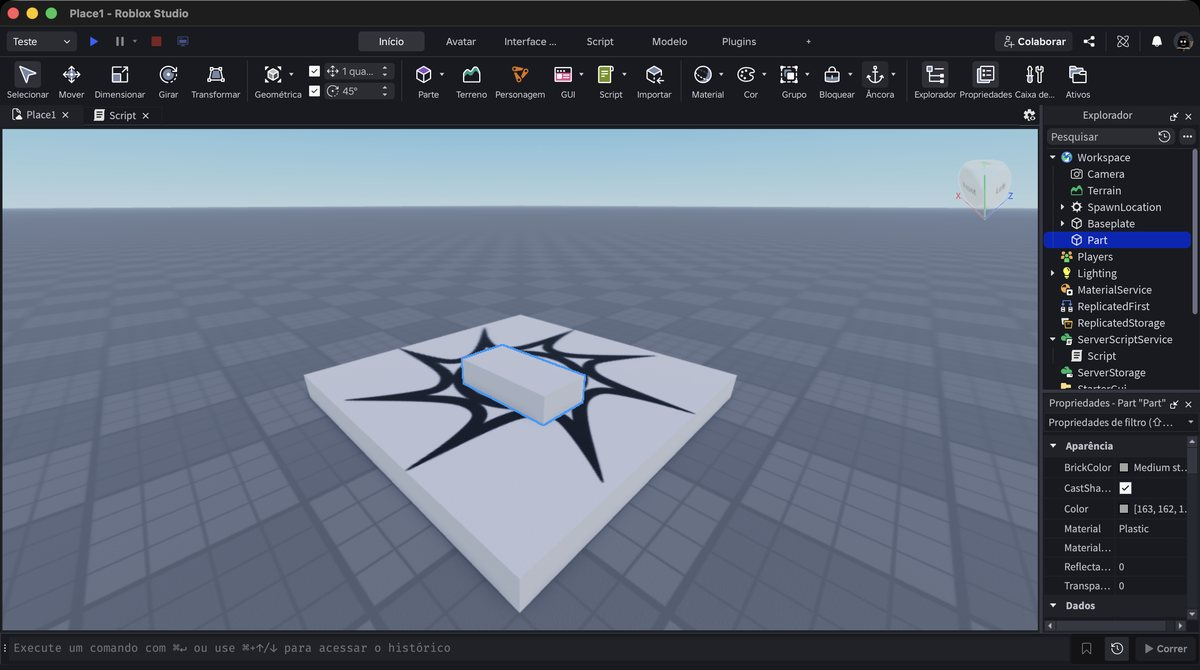
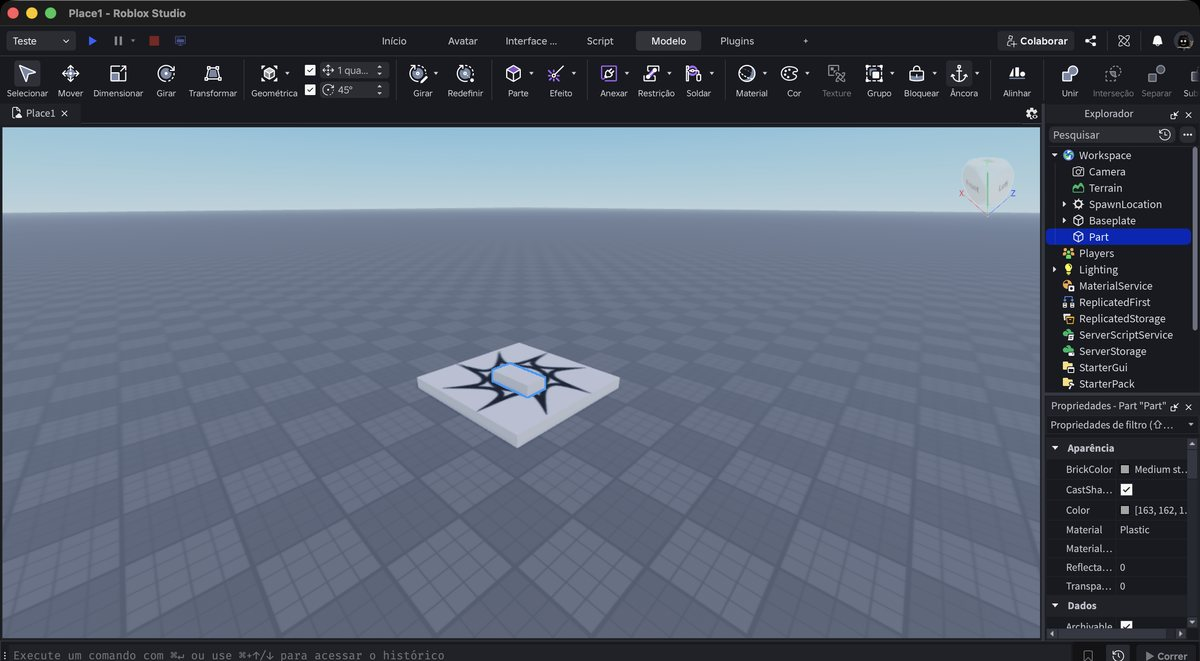
Conserta dois clipes da Aula 8 que apontavam o botao errado
As capturas de 'criar a moeda' e 'ancorar' tinham sido feitas com a faixa
na aba Inicio, enquanto o passo 2 manda ir para Modelo. O cursor pousava
em 'Personagem' e em 'Propriedades'. Recapturei na aba certa.

Junto vai o confere_clipes.py, que le a captura na posicao do alvo e
reprova quando o rotulo ali nao e o que o texto manda clicar — a checagem
que faltava para esse erro nao passar batido.

Changed region(s): [[0.0, 0.0303, 1.0, 1.0], [0.2467, 0.4539, 0.6167, 0.9077], [0.0308, 0.0, 0.1542, 0.0303]]

diff --git a/confere_clipes.py b/confere_clipes.py
@@ -1,0 +1,66 @@
+#!/usr/bin/env python3
+# -*- coding: utf-8 -*-
+"""Confere o alvo de TODO clipe de gesto contra a captura que ele usa.
+   Nasceu de um erro real: um clipe da Aula 8 apontava o cursor para
+   'Personagem' enquanto o texto mandava clicar em 'Parte' — porque a captura
+   tinha sido feita com a faixa noutra aba."""
+import os, sys
+from confere_alvos import rotulo_em
+
+# (pasta, captura ANTES, alvo, rotulo que TEM de estar ali)
+CLIPES = [
+ ("aula2","s04_a.png",[1269,118],"parte"),
+ ("aula2","s06_a.png",[2361,118],"ancora"),
+ ("aula2","s07_a.png",[1990,118],"cor"),
+ ("aula2","s08_a.png",[1885,118],"material"),
+ ("aula3","s_criar_a.png",[1269,118],"parte"),
+ ("aula3","s_ancora_a.png",[2361,118],"ancora"),
+ ("aula3","s_cor_a.png",[1990,118],"cor"),
+ ("aula4","s_criar_a.png",[1269,118],"parte"),
+ ("aula4","s_ancora_a.png",[2361,118],"ancora"),
+ ("aula4","s_cor_a.png",[1990,118],"cor"),
+ ("aula5","s_moeda_a.png",[1269,118],"parte"),
+ ("aula5","s_anc_moeda_a.png",[2361,118],"ancora"),
+ ("aula5","s_cor_a.png",[1990,118],"cor"),
+ ("aula6","s_porta_a.png",[1269,118],"parte"),
+ ("aula6","s_anc_porta_a.png",[2362,118],"ancora"),
+ ("aula6","s_botao_a.png",[1269,118],"parte"),
+ ("aula6","s_cor_porta_a.png",[1990,118],"cor"),
+ ("aula6","s_cor_botao_a.png",[1990,118],"cor"),
+ ("aula7","s_criar_a.png",[1269,118],"parte"),
+ ("aula7","s_ancora_a.png",[2361,118],"ancora"),
+ ("aula7","s_cor_a.png",[1990,118],"cor"),
+ ("aula8","s_moeda_a.png",[1269,179],"parte"),
+ ("aula8","s_anc_moeda_a.png",[2361,175],"ancora"),
+ ("aula8","s_loja_a.png",[1269,179],"parte"),
+ ("aula8","s_cor_moeda_a.png",[1990,179],"cor"),
+ ("aula8","s_cor_loja_a.png",[1990,179],"cor"),
+ ("aula9","s_lava_a.png",[1269,115],"parte"),
+ ("aula9","s_anc_lava_a.png",[2361,111],"ancora"),
+ ("aula9","s_cor_lava_a.png",[1990,115],"cor"),
+ ("aula9","s_mat_lava_a.png",[1885,115],"material"),
+ ("aula9","s_moeda_a.png",[1269,115],"parte"),
+ ("aula9","s_anc_moeda_a.png",[2361,111],"ancora"),
+ ("aula9","s_cor_moeda_a.png",[1990,115],"cor"),
+]
+
+
+def main():
+    ruins = []
+    for pasta, arq, alvo, esperado in CLIPES:
+        img = os.path.join(pasta, arq)
+        if not os.path.exists(img):
+            print(f"  {pasta}/{arq:<24} FALTA O ARQUIVO"); ruins.append((pasta, arq)); continue
+        perto = rotulo_em(img, alvo[0], alvo[1])
+        j = " ".join(perto).lower().replace("â", "a").replace("ã", "a").replace("ç", "c")
+        ok = esperado in j
+        print(f"  {pasta}/{arq:<24} {alvo} -> {perto}  {'ok' if ok else '<<< ERRADO'}")
+        if not ok:
+            ruins.append((pasta, arq, alvo, perto, esperado))
+    print(f"\nerrados: {len(ruins)}")
+    for r in ruins: print("  ", r)
+    return 1 if ruins else 0
+
+
+if __name__ == "__main__":
+    sys.exit(main())

diff --git a/confere_alvos.py b/confere_alvos.py
@@ -1,0 +1,61 @@
+#!/usr/bin/env python3
+# -*- coding: utf-8 -*-
+"""Confere, para cada gesto gravado, se o alvo do cursor cai mesmo em cima do
+   botao que o texto manda clicar. Le a captura ANTES na posicao do alvo."""
+import json, os, sys, rs
+from PIL import Image
+
+def rotulo_em(imagem, x, y, raio=90):
+    """O que esta escrito perto de (x,y) na captura."""
+    im = Image.open(imagem).convert("L")
+    L, A = im.size
+    cx0, cy0 = max(0, x - raio), max(0, y - 10)
+    cx1, cy1 = min(L, x + raio), min(A, y + 95)
+    rec = im.crop((cx0, cy0, cx1, cy1))
+    rec = rec.resize((rec.width * 3, rec.height * 3), Image.LANCZOS)
+    rec.save("/tmp/_rot.png")
+    achados = [t.strip() for t, *_ in rs.ocr("/tmp/_rot.png", psm="6", escala=1) if len(t.strip()) > 2]
+    return achados
+
+
+ESPERADO = {
+    "criar": "parte", "aba_modelo": None, "ancorar": "ancora",
+    "material": "material", "cor": "cor", "tamanho": None,
+    "renomear": None, "inserir_script": None, "voltar": None,
+    "jogar": None, "parar": None, "publicar": None,
+}
+
+
+def confere(pasta):
+    caminho = f"{pasta}/alvos.json"
+    if not os.path.exists(caminho):
+        return []
+    A = json.load(open(caminho))
+    problemas = []
+    for chave, dados in A.items():
+        esperado = ESPERADO.get(chave)
+        if not esperado:
+            continue
+        alvo = dados.get("alvo") or dados.get("alvo_seta")
+        antes = dados.get("antes")
+        if not alvo or not antes:
+            continue
+        img = os.path.join(pasta, antes)
+        if not os.path.exists(img):
+            continue
+        perto = rotulo_em(img, alvo[0], alvo[1])
+        juntos = " ".join(perto).lower().replace("â", "a").replace("ã", "a").replace("ç", "c")
+        ok = esperado in juntos
+        print(f"  {pasta}/{chave:<16} alvo={alvo} -> {perto}  {'OK' if ok else '<<< ERRADO'}")
+        if not ok:
+            problemas.append((pasta, chave, alvo, perto))
+    return problemas
+
+
+if __name__ == "__main__":
+    todos = []
+    for n in range(2, 10):
+        todos += confere(f"aula{n}")
+    print(f"\nproblemas: {len(todos)}")
+    for p in todos:
+        print("  ", p)
